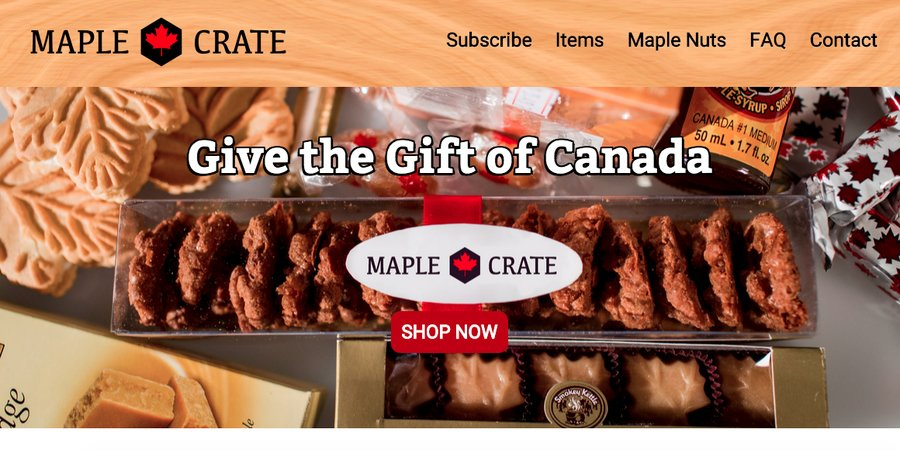
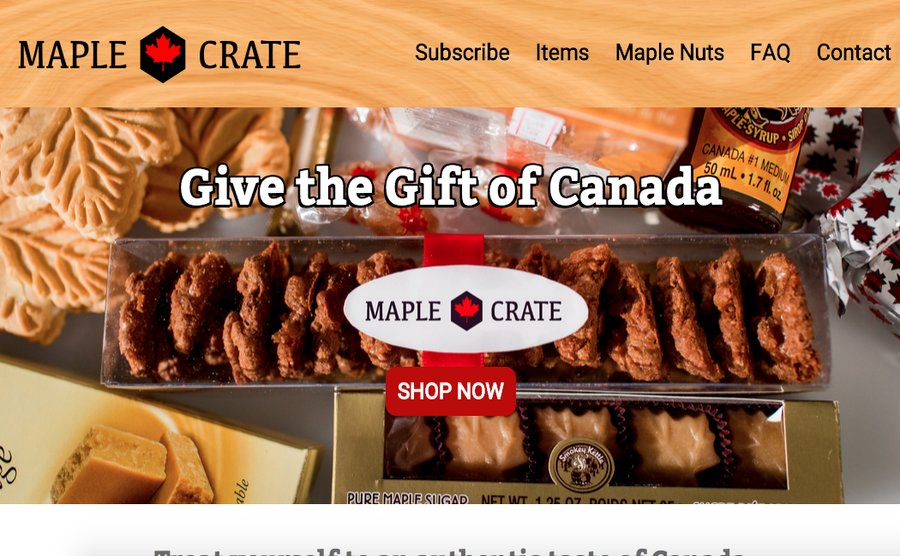
Update image sizes to fit match golden ratio

diff --git a/index.html b/index.html
@@ -45,29 +45,35 @@
 
 	<div class="main" id="main">
 		<div class="wrapper">
-			<div class="main-img wow fadeInRight">
+			<div class="main-img wow fadeInRight" data-wow-duration="2s">
 			</div>
-			<h1 class="main-header wow fadeInLeft">Front End <br>Web Developer</h1>
+			<h1 class="main-header wow fadeInLeft" data-wow-duration="2s">Front End <br>Web Developer</h1>
 		</div>
 	</div><!--/.main -->
 
 	<div class="work section" id="work">
 		<ul class="work-container">
-			<li><a href="http://maplecrate.ca"><img class="wow fadeInRight" src="images/work1.jpg" alt=""></a></li>
-			<li><a href="http://abkendal.github.io/YogaCorpv2"><img class="wow fadeInLeft" src="images/work2.jpg" alt=""></a></li>
-			<li><a href="http://abkendal.github.io/Noah-Kendal-Portfolio/"><img class="wow fadeInRight" src="images/work3.jpg" alt=""></a></li>
-			<li><a href="http://sleepmedcorp.ca/"><img class="wow fadeInLeft" src="images/work4.jpg" alt=""></a></li>
-			<li><a href="http://abkendal.github.io/Grogger/"><img class="wow fadeInRight" src="images/work5.jpg" alt=""></a></li>
-			<li><a href="https://github.com/abkendal"><img class="wow fadeInLeft" src="images/work6.jpg" alt=""></a></li>
+			<li><a href="http://maplecrate.ca"><img class="wow fadeInRight" data-wow-duration="2s" src="images/work1.jpg" alt=""></a></li>
+			<li><a href="http://abkendal.github.io/YogaCorpv2"><img class="wow fadeInLeft" data-wow-duration="2s" src="images/work2.jpg" alt=""></a></li>
+			<li><a href="http://abkendal.github.io/Noah-Kendal-Portfolio/"><img class="wow fadeInRight" data-wow-duration="2s" src="images/work3.jpg" alt=""></a></li>
+			<li><a href="http://sleepmedcorp.ca/"><img class="wow fadeInLeft" data-wow-duration="2s" src="images/work4.jpg" alt=""></a></li>
+			<li><a href="http://abkendal.github.io/Grogger/"><img class="wow fadeInRight" data-wow-duration="2s" src="images/work5.jpg" alt=""></a></li>
+			<li><a href="https://github.com/abkendal"><img class="wow fadeInLeft" data-wow-duration="2s" src="images/work6.jpg" alt=""></a></li>
 		</ul>
 	</div><!--/.work -->
 
 	<div class="profile section" id="profile">
 		<div class="wrapper clearfix">
-			<div class="profile-info wow fadeInLeft">
-				<p>Lorem ipsum dolor sit amet, consectetur adipisicing elit. Minus, nam. Tempora fugiat illum, est veniam iste quod odio nihil architecto incidunt, quaerat deleniti corporis a neque placeat iusto minima porro!</p>
+			<div class="profile-info wow fadeInLeft" data-wow-duration="2s" >
+				<p><strong>I'm a neuroscientist turned web developer from Toronto with a focus on Front End Development.</strong></p>
+				<h3>Current</h3>
+				<p>Freelance Web Developer - since 01/2015</p>
+				<h3>Study</h3>
+				<p>M.Sc. Cognitive Neuroscience - McGill University</p>
+				<p>Hon. B.Sc. Psychology & Neuroscience - McMaster University</p>
+
 			</div>
-			<div class="profile-img wow fadeInRight"></div>
+			<div class="profile-img wow fadeInRight" data-wow-duration="2s" ></div>
 		</div>
 	</div>
 	<div class="contact section" id="contact">

diff --git a/css/style.css b/css/style.css
@@ -128,7 +128,7 @@ h1 {
 	color: black;
 	background: lightgrey;
 	margin-left: 15%;
-	padding: 50px;
+	padding: 30px;
 
 }
 .profile-img {
